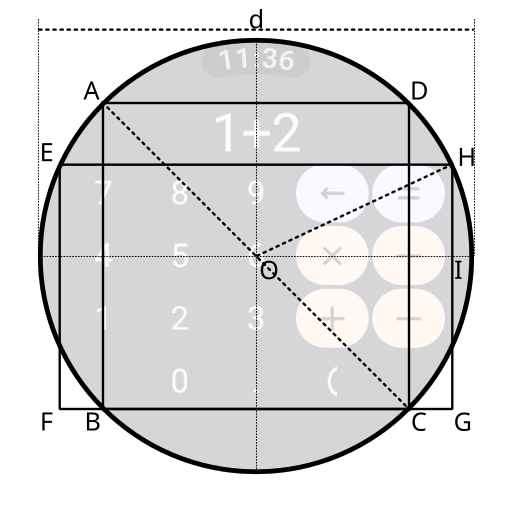
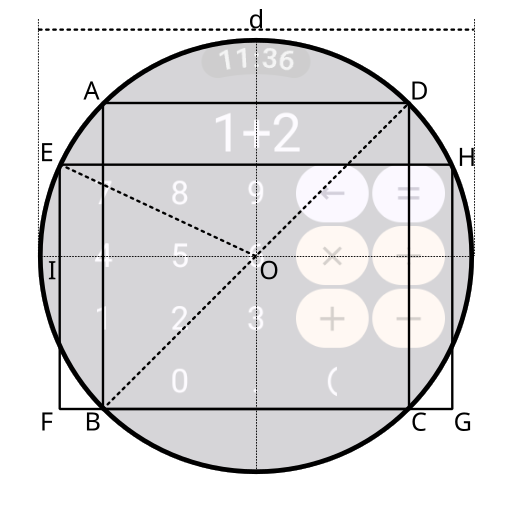
update

diff --git a/doc/calculator-screen-constants.md b/doc/calculator-screen-constants.md
@@ -14,7 +14,7 @@ This document describes how the following constants used in `CalculatorScreen.kt
 * Quadrilateral `EFGH` has vertices `E` and `H` on the circumference of the display area.
 * Sides `BC` and `FG` lie on the same line.
 * The ratio of the side length of square `ABCD` to `EF` (or `GH`) is 5:4.
-* Point `I` is the foot of the perpendicular from `H` to the horizontal line passing through the center `O`.
+* Point `I` is the foot of the perpendicular from `E` to the horizontal line passing through the center `O`.
 
 `INSCRIBED_RATIO` represents the ratio of the side length `AB` of the inscribed square `ABCD` to the
 diameter `d` of the display area.
@@ -23,24 +23,30 @@ diameter `d` of the display area.
 
 ## Quadrilateral ABCD
 
-`ABCD` is a square, and its diagonal `AC` is equal to the diameter `d` of the display area.
+`ABCD` is a square, and its diagonal `BD` is equal to the diameter `d` of the display area.
 
 For a square, the diagonal is $\sqrt{2}$ times the side length:
 
 $$
-AC = \sqrt{ 2 } \cdot AD
+\begin{aligned}
+BD = \sqrt{ 2 } \cdot AD\\
+\end{aligned}
 $$
 
 Therefore,
 
 $$
-AD = \frac{ 1 } { \sqrt{ 2 } } d
+\begin{aligned}
+AD = \frac{ 1 } { \sqrt{ 2 } } d\\
+\end{aligned}
 $$
 
 Since all sides of `ABCD` have the same length,
 
 $$
-AB = BC = CD = AD = \frac{ 1 } { \sqrt{ 2 } } d
+\begin{aligned}
+AB = BC = CD = AD = \frac{ 1 } { \sqrt{ 2 } } d\\
+\end{aligned}
 $$
 
 Thus,
@@ -56,40 +62,46 @@ $$
 The side lengths of `ABCD` and `EFGH` satisfy
 
 $$
-GH = \frac{ 4 }{ 5 }CD
+\begin{aligned}
+EF = \frac{ 4 }{ 5 }AB\\
+\end{aligned}
 $$
 
-First, calculate the vertical distance `HI`.
+First, calculate the vertical distance `EI`.
 
 From the geometry shown in the diagram,
 
 $$
-HI = \frac{ 1 }{ 2 } CD - ( CD - GH )
+\begin{aligned}
+EI = \frac{ 1 }{ 2 } AB - ( AB - EF )\\
+\end{aligned}
 $$
 
 Therefore,
 
 $$
 \begin{aligned}
-HI &= \frac{ 1 }{ 2 } CD - CD + GH\\
-&= -\frac{ 1 }{ 2 } CD + \frac{ 4 }{ 5 } CD\\
-&= \frac{ 3 }{ 10 } CD\\
+EI &= \frac{ 1 }{ 2 } AB - AB + EF\\
+&= -\frac{ 1 }{ 2 } AB + \frac{ 4 }{ 5 } AB\\
+&= \frac{ 3 }{ 10 } AB\\
 &= \frac{ 3 }{ 10 } \cdot \frac{ 1 } { \sqrt{ 2 } } d\\
 &= \frac{ 3 }{ 10 \sqrt{ 2 } } d\\
 \end{aligned}
 $$
 
-Since `H` lies on the circumference of the display area,
-
-$$
-OH = \frac{ 1 }{ 2 } d
-$$
-
-Triangle `OIH` is a right triangle. Applying the Pythagorean theorem,
+Since `E` lies on the circumference of the display area,
 
 $$
 \begin{aligned}
-OI &= \sqrt{ OH^2 - HI^2 }\\
+OE = \frac{ 1 }{ 2 } d\\
+\end{aligned}
+$$
+
+Triangle `OIE` is a right triangle. Applying the Pythagorean theorem,
+
+$$
+\begin{aligned}
+OI &= \sqrt{ OE^2 - EI^2 }\\
 &= \sqrt{ ( \frac{ 1 }{ 2 } d )^2 - ( \frac{ 3 }{ 10 \sqrt{ 2 } } d )^2 }\\
 &= \sqrt{ \frac{ 1 }{ 4 } d^2 - \frac{ 9 }{ 200 } d^2 }\\
 &= \sqrt{ \frac{ 41 }{ 200 } } d\\
@@ -99,7 +111,9 @@ $$
 Since `O` is the center of the circle and `OI` is perpendicular to chord `EH`, `OI` bisects `EH`, so
 
 $$
-EH = 2 \cdot OI
+\begin{aligned}
+EH = 2 \cdot OI\\
+\end{aligned}
 $$
 
 Therefore,
